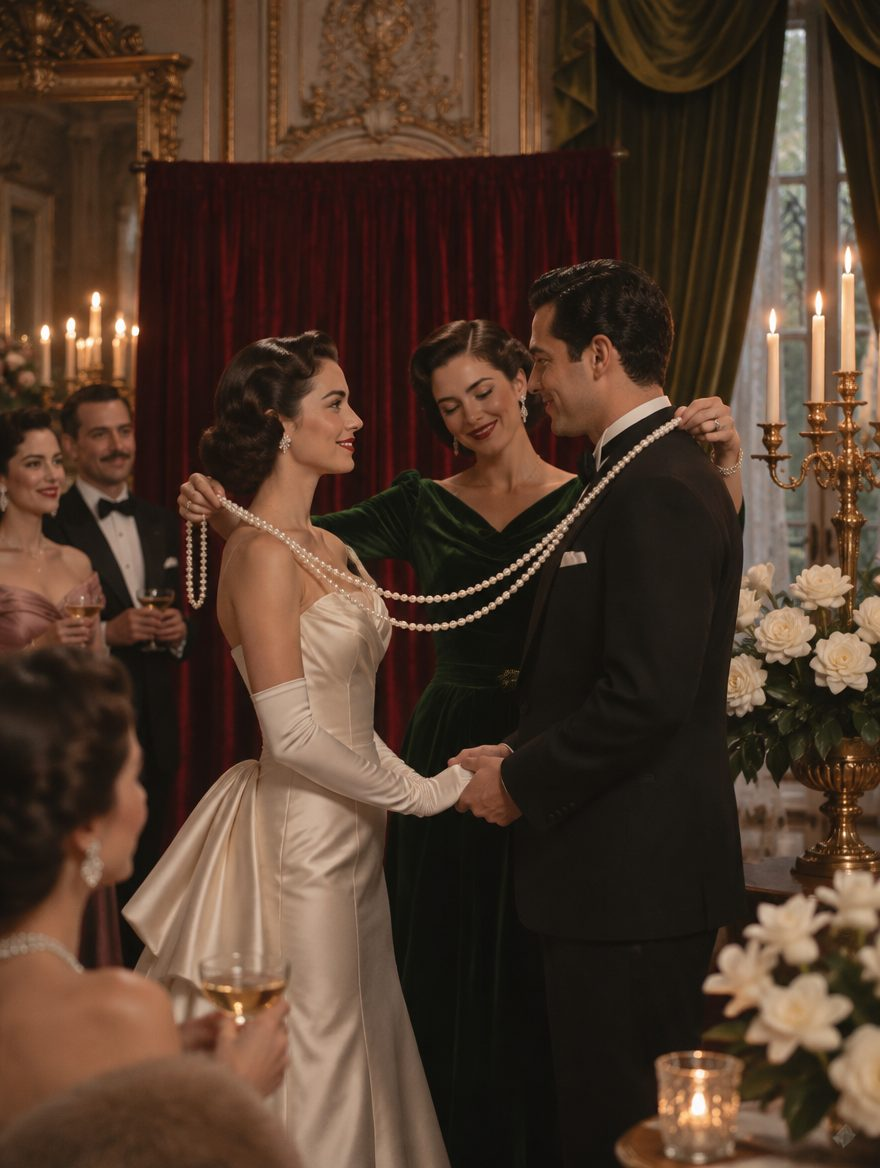
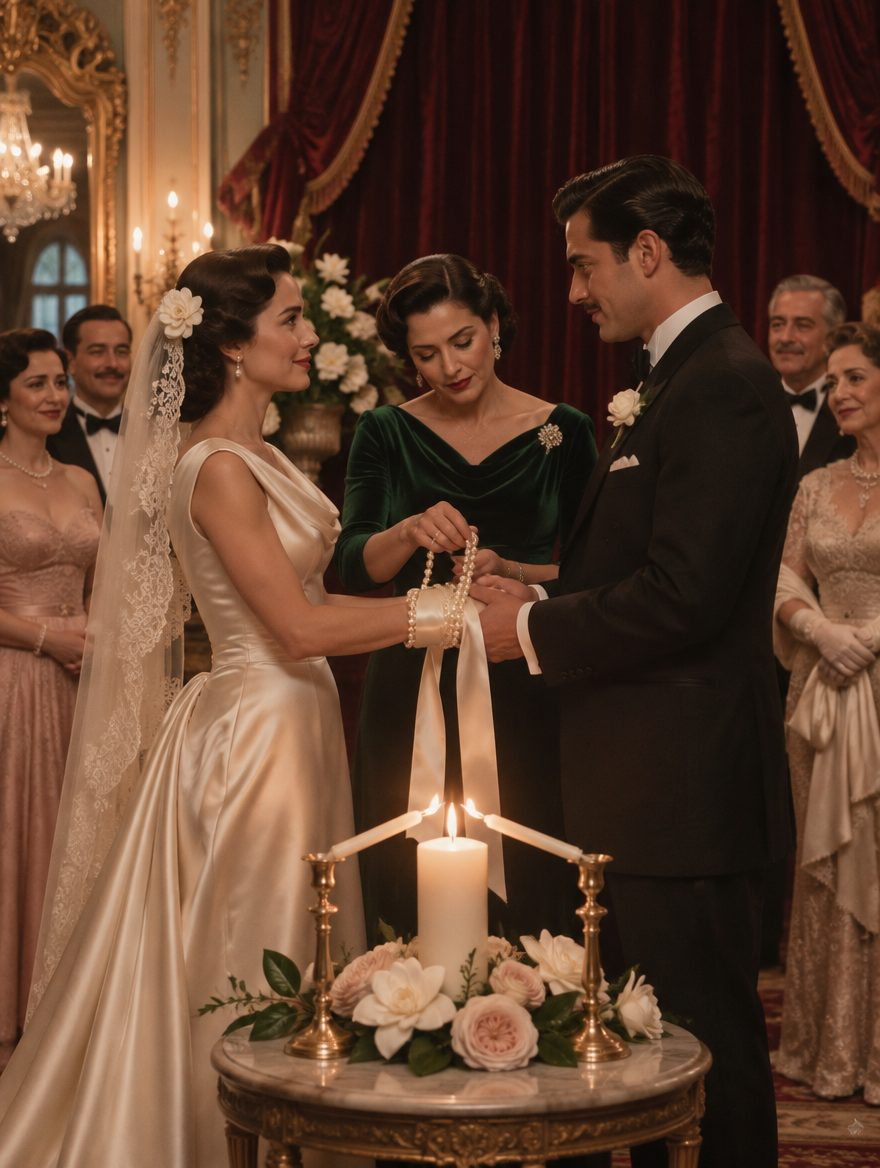
Velvet Romance: foto de ceremonia simbólica con manos unidas y vela de unión

diff --git a/public/propuestas/velvet-romance/index.html b/public/propuestas/velvet-romance/index.html
@@ -143,10 +143,10 @@ section{padding:clamp(56px,8vw,96px) 0;border-top:1px solid var(--line)}
     <div class="sec-head">
       <p class="eyebrow">Acto 2</p>
       <h2>La ceremonia y la cena</h2>
-      <p>El salón con cortinas de terciopelo verde de piso a techo, manteles blancos y candelabros de oro. Frente al telón de terciopelo vino, una ceremonia simbólica breve con los invitados de pie y un lazo de perlas. De ahí, el brindis con copas coupe, el corte del pastel de gala y el primer baile entre las mesas.</p>
+      <p>El salón con cortinas de terciopelo verde de piso a techo, manteles blancos y candelabros de oro. Frente al telón de terciopelo vino, una ceremonia simbólica breve con los invitados de pie: las manos de los novios unidas con perlas y un listón de satén, y una vela de unión. De ahí, el brindis con copas coupe, el corte del pastel de gala y el primer baile entre las mesas.</p>
     </div>
     <div class="grid">
-      <figure><img src="img/ceremonia.jpg" alt="Ceremonia simbólica frente al telón de terciopelo vino, con un lazo de perlas sobre los novios" width="880" height="1168" loading="lazy"><figcaption>La ceremonia y el lazo de perlas</figcaption></figure>
+      <figure><img src="img/ceremonia.jpg" alt="Ceremonia simbólica: la oficiante une las manos de los novios con perlas y un listón de satén junto a una vela de unión" width="880" height="1168" loading="lazy"><figcaption>Las manos unidas con perlas</figcaption></figure>
       <figure><img src="img/copas.jpg" alt="Copas coupe, gardenia y cerezas frente al terciopelo verde" width="880" height="1168" loading="lazy"><figcaption>El brindis</figcaption></figure>
       <figure><img src="img/pastel.jpg" alt="Los novios cortan el pastel de gala frente al telón de terciopelo vino" width="880" height="1168" loading="lazy"><figcaption>El pastel de gala</figcaption></figure>
       <figure><img src="img/primer-baile.jpg" alt="Los novios bailando entre las mesas" width="880" height="1168" loading="lazy"><figcaption>El primer baile</figcaption></figure>
